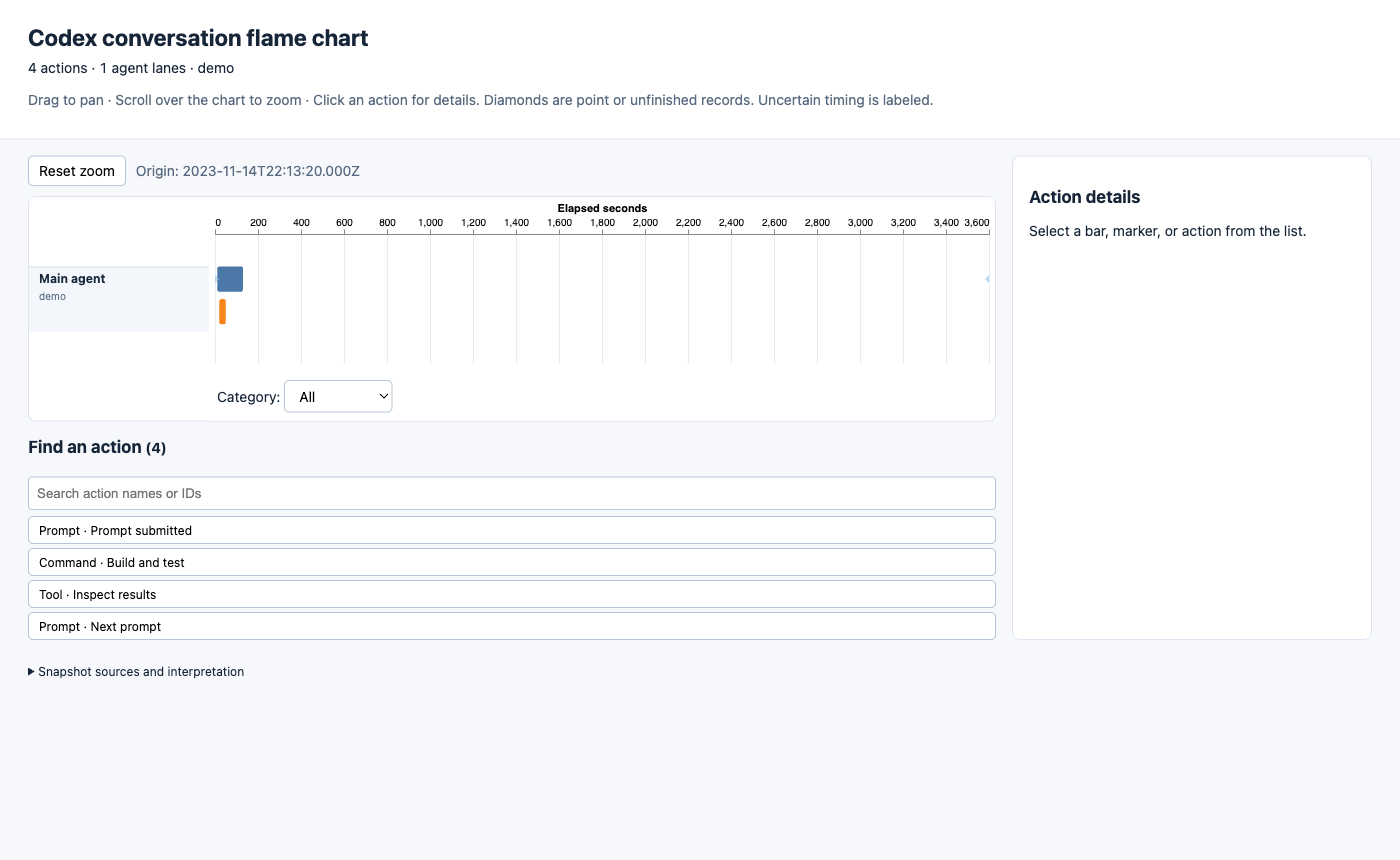
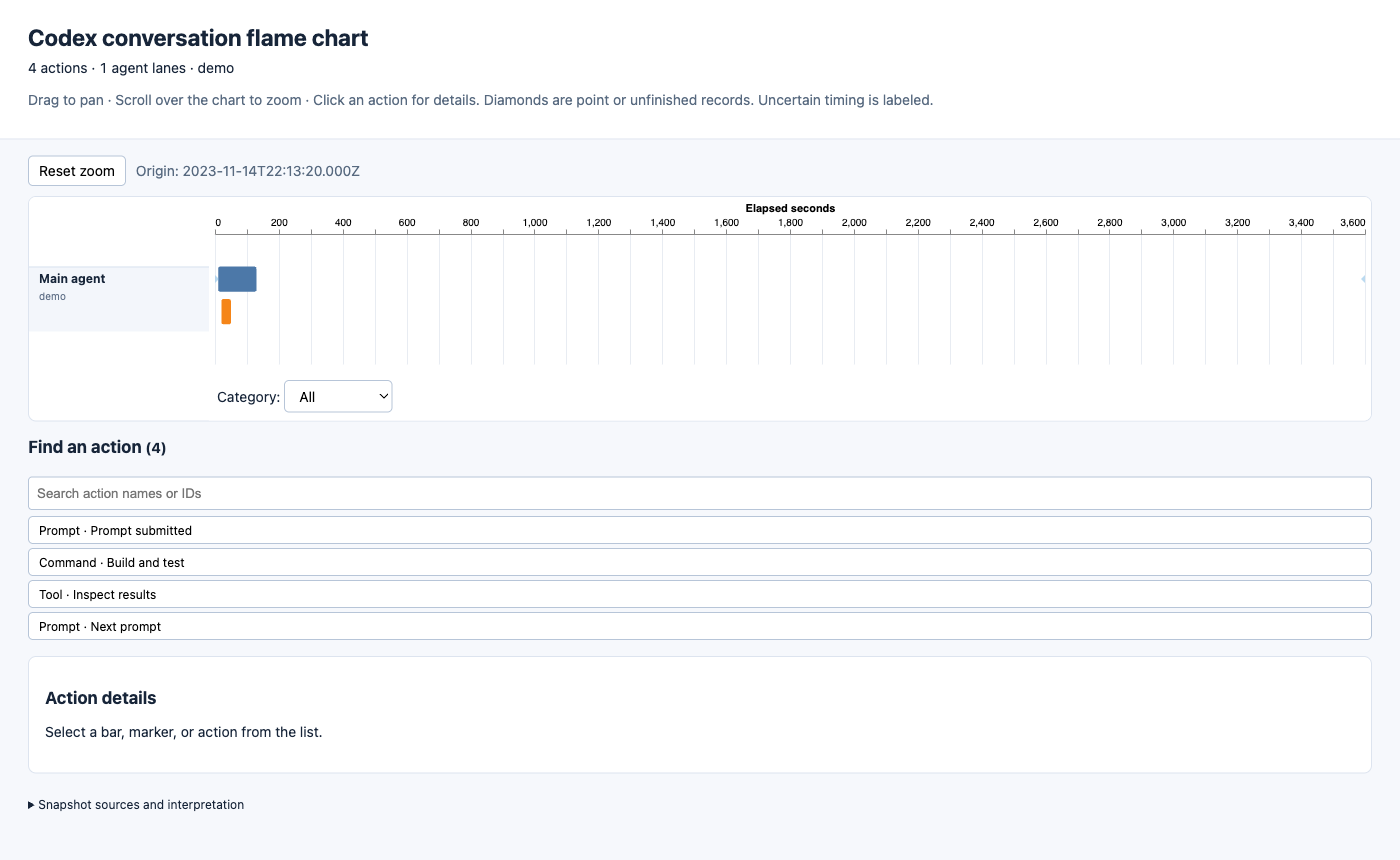
fix(codex): place action details below the full-width timeline

diff --git a/scripts/codex_trace/viewer.html b/scripts/codex_trace/viewer.html
@@ -4,7 +4,7 @@
 <meta charset="utf-8"><meta name="viewport" content="width=device-width, initial-scale=1">
 <title>Codex conversation flame chart</title>
 <style>
-:root{font-family:system-ui,sans-serif;color:#172539;background:#f6f8fc;font-size:14px}body{margin:0}header{padding:24px 28px 14px;background:white;border-bottom:1px solid #dde4ef}h1{font-size:23px;margin:0 0 8px}h2{font-size:17px}p{line-height:1.5}.muted{color:#586a80}#summary{font-variant-numeric:tabular-nums}button,select{font:inherit;padding:6px 10px;border:1px solid #b7c5d8;border-radius:5px;background:white;cursor:pointer}button:hover{background:#edf3fc}#notices{margin:16px 28px;padding:10px 16px;background:#fff5dc;border:1px solid #eac974;border-radius:6px}#notices:empty{display:none}main{display:grid;grid-template-columns:minmax(0,1fr) 360px;gap:16px;padding:16px 28px}#timeline-panel{min-width:0}#scroll{overflow:auto;max-height:72vh;background:white;border:1px solid #dde4ef;border-radius:8px}#timeline{display:flex;min-width:520px;align-items:flex-start}#chart{flex:1;min-width:0}#chart.vega-embed{padding-right:0}#lanes{position:sticky;left:0;z-index:2;flex:0 0 180px;background:white;height:100%;font-size:12px}#lane-content{position:relative}.lane{position:absolute;left:0;right:0;border-top:1px solid #d9e2ef;padding:4px 10px;background:#f3f6fb;overflow:hidden;box-sizing:border-box}.lane strong{display:block;word-break:break-word}.lane small{display:block;margin-top:5px;color:#63738a}.vega-bindings{position:sticky;bottom:0;background:white;padding:8px}#details{border:1px solid #dde4ef;border-radius:8px;background:white;padding:16px;max-height:76vh;overflow:auto;overflow-wrap:anywhere}pre{white-space:pre-wrap;overflow-wrap:anywhere;font:12px/1.5 ui-monospace,monospace;background:#f5f7fa;padding:10px;border-radius:4px}details{margin:8px 0}summary{cursor:pointer}#actions{margin-top:15px}#action-list{max-height:210px;overflow:auto;display:grid;gap:4px}#action-list button{text-align:left;font-size:12px}#search{width:100%;box-sizing:border-box;padding:8px;margin:6px 0;border:1px solid #b7c5d8;border-radius:4px}#error{color:#a51f32}footer{padding:0 28px 22px;font-size:12px}#controls{display:flex;gap:10px;align-items:center;flex-wrap:wrap;margin-bottom:10px}@media(max-width:900px){main{grid-template-columns:1fr}#details{max-height:50vh}}
+:root{font-family:system-ui,sans-serif;color:#172539;background:#f6f8fc;font-size:14px}body{margin:0}header{padding:24px 28px 14px;background:white;border-bottom:1px solid #dde4ef}h1{font-size:23px;margin:0 0 8px}h2{font-size:17px}p{line-height:1.5}.muted{color:#586a80}#summary{font-variant-numeric:tabular-nums}button,select{font:inherit;padding:6px 10px;border:1px solid #b7c5d8;border-radius:5px;background:white;cursor:pointer}button:hover{background:#edf3fc}#notices{margin:16px 28px;padding:10px 16px;background:#fff5dc;border:1px solid #eac974;border-radius:6px}#notices:empty{display:none}main{display:grid;grid-template-columns:minmax(0,1fr);gap:16px;padding:16px 28px}#timeline-panel{min-width:0}#scroll{overflow:auto;max-height:72vh;background:white;border:1px solid #dde4ef;border-radius:8px}#timeline{display:flex;min-width:520px;align-items:flex-start}#chart{flex:1;min-width:0}#chart.vega-embed{padding-right:0}#lanes{position:sticky;left:0;z-index:2;flex:0 0 180px;background:white;height:100%;font-size:12px}#lane-content{position:relative}.lane{position:absolute;left:0;right:0;border-top:1px solid #d9e2ef;padding:4px 10px;background:#f3f6fb;overflow:hidden;box-sizing:border-box}.lane strong{display:block;word-break:break-word}.lane small{display:block;margin-top:5px;color:#63738a}.vega-bindings{position:sticky;bottom:0;background:white;padding:8px}#details{border:1px solid #dde4ef;border-radius:8px;background:white;padding:16px;max-height:76vh;overflow:auto;overflow-wrap:anywhere}pre{white-space:pre-wrap;overflow-wrap:anywhere;font:12px/1.5 ui-monospace,monospace;background:#f5f7fa;padding:10px;border-radius:4px}details{margin:8px 0}summary{cursor:pointer}#actions{margin-top:15px}#action-list{max-height:210px;overflow:auto;display:grid;gap:4px}#action-list button{text-align:left;font-size:12px}#search{width:100%;box-sizing:border-box;padding:8px;margin:6px 0;border:1px solid #b7c5d8;border-radius:4px}#error{color:#a51f32}footer{padding:0 28px 22px;font-size:12px}#controls{display:flex;gap:10px;align-items:center;flex-wrap:wrap;margin-bottom:10px}
 </style>
 <script>@@BUNDLE@@</script>
 </head>
